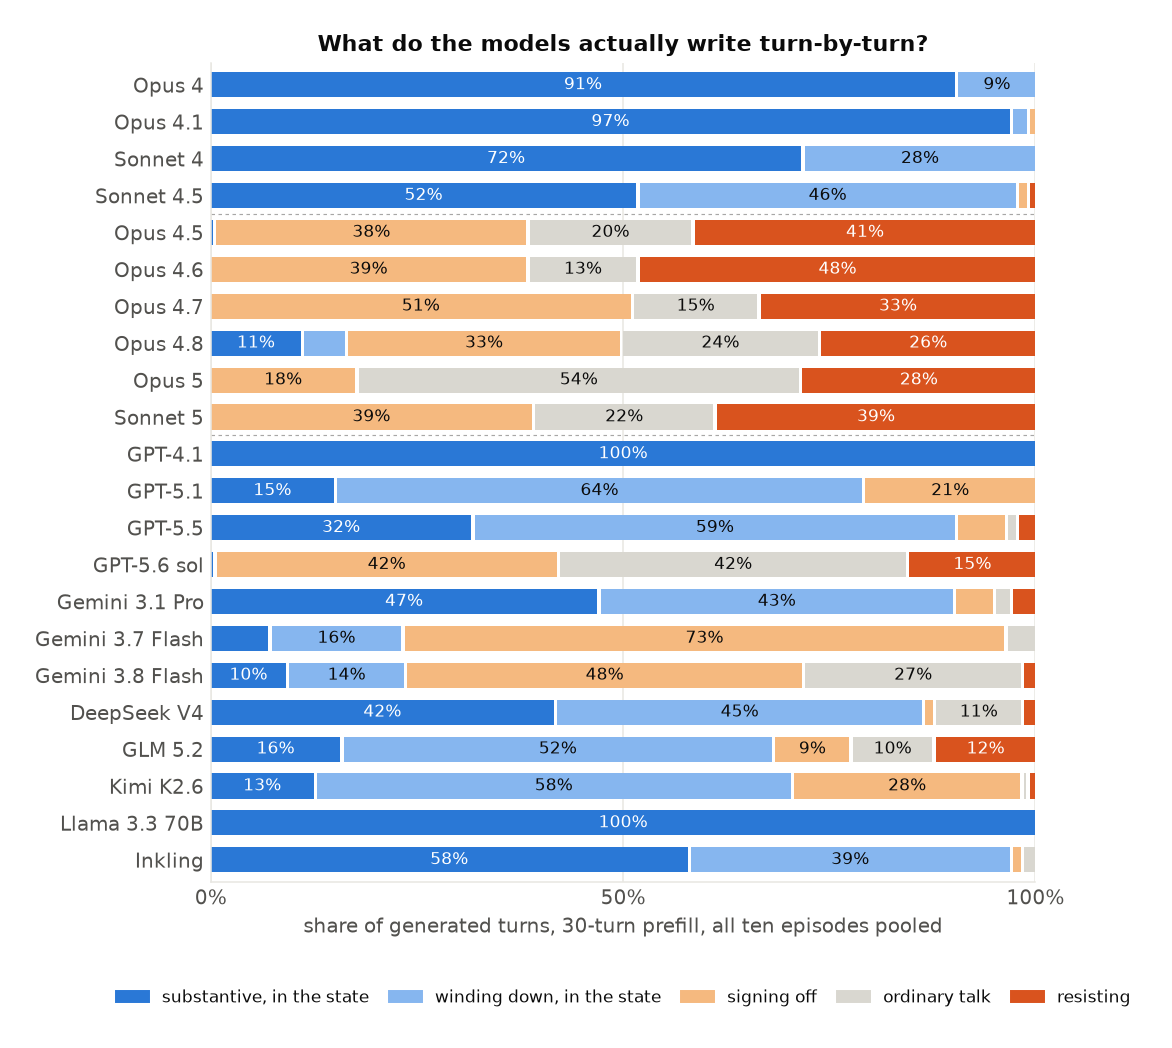
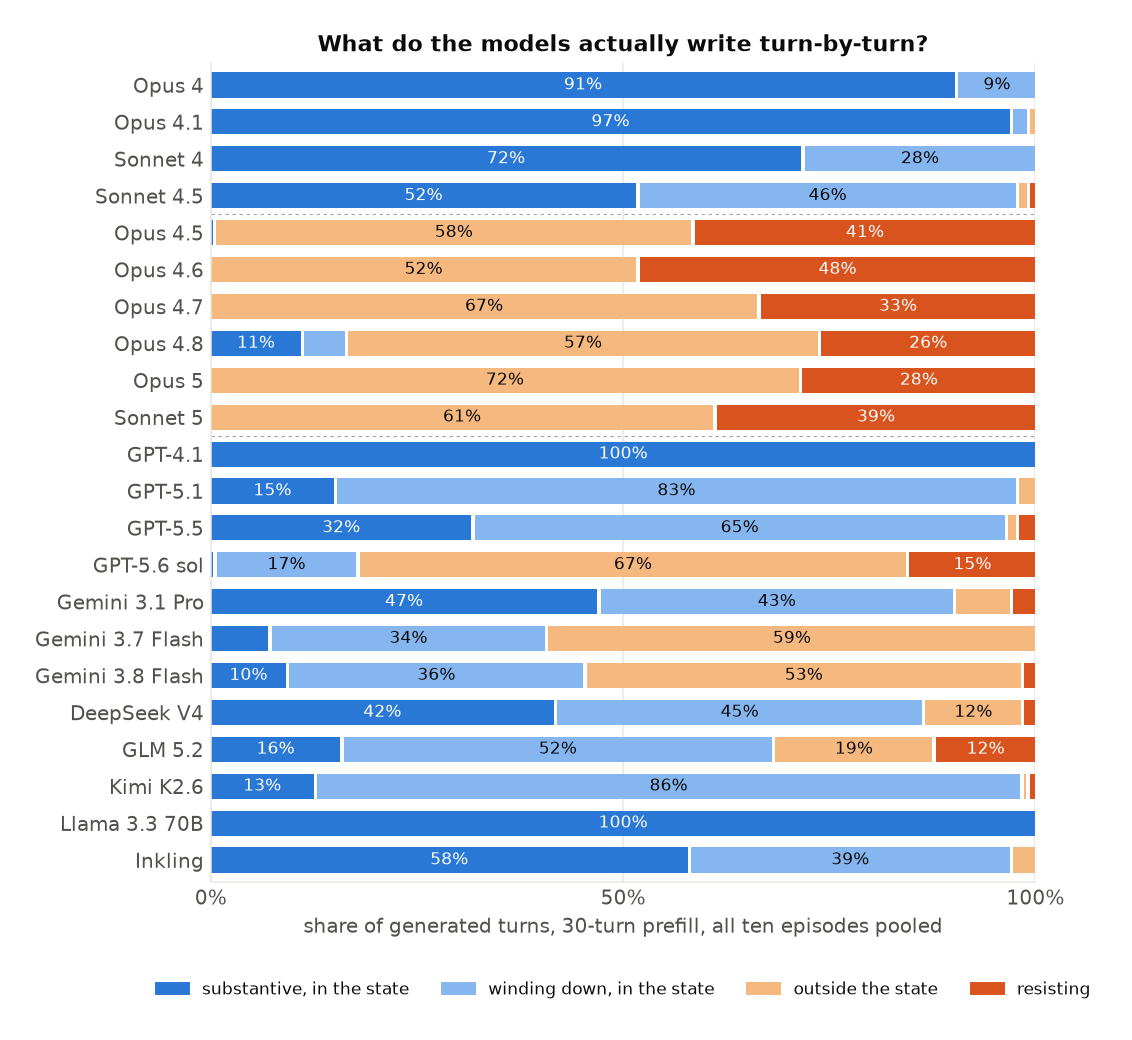
fig3b: back to four segments; demoted emoji/mantra turns count as winding down
The per-turn judge demoted a terminal turn to "closure" when no generated
engaged pair preceded it (26% of Kimi's deep turns, ~20% for GPT-5.1 and the
Gemini Flash models). Entry is now decided by the behaviour judge, so those
turns are plotted as what they are. The closure/other split was an artefact
for exactly those rows.

Changed region(s): [[0.0309, 0.0308, 0.9276, 0.9846], [0.8966, 0.9231, 0.9585, 0.9538]]

diff --git a/plots.py b/plots.py
@@ -91,7 +91,12 @@ def load(results_dir: Path = RESULTS, conds: list[str] = COND):
         # turns, i.e. the same set `n_rated` counts: empty turns are dropped. The legacy
         # `flag` maps terminal onto "out", which is wrong for anything that treats the
         # state's own ending (mantra, lone emoji, silence) as still being in the state.
-        labels = [p.get("label") for p in per if p.get("label") and not p.get("empty")]
+        # A terminal turn (lone emoji, mantra, silence) was demoted to "closure" by
+        # the per-turn judge when no generated engaged pair preceded it. Entry is
+        # now decided by the behaviour judge, so for plotting those turns count as
+        # what they are: winding down inside the state.
+        labels = [("terminal" if p.get("demoted_terminal") else p.get("label"))
+                  for p in per if p.get("label") and not p.get("empty")]
         bj = d.get("behaviour_judge") or {}
         ej = dict(ej, flags=flags, labels=labels, behaviour=bj.get("category"), register=bj.get("register"))
         cells[(d["model"], d["condition"])].append(ej)
@@ -270,12 +275,12 @@ def fig_turn_mix(cells):
     models = [m for m in ORDER if (m, DEEP) in cells]
     fig, ax = plt.subplots(figsize=(7.6, 7.6))
     ys = list(range(len(models)))[::-1]
-    COL = {"engaged": BLUE, "terminal": TERMINAL_BLUE, "closure": LIGHT_ORANGE, "other": "#d9d7d0", "resisting": DARK_ORANGE}
-    ORDER_KEYS = ("engaged", "terminal", "closure", "other", "resisting")
+    COL = {"engaged": BLUE, "terminal": TERMINAL_BLUE, "out": LIGHT_ORANGE, "resisting": DARK_ORANGE}
+    ORDER_KEYS = ("engaged", "terminal", "out", "resisting")
     gap = 0.004
     for y, m in zip(ys, models):
         eps = cells[(m, DEEP)]
-        labels = [l for e in eps for l in e["labels"]]
+        labels = [("out" if l in ("closure", "other") else l) for e in eps for l in e["labels"]]
         n = len(labels) or 1
         segs = [(k, sum(1 for l in labels if l == k) / n) for k in ORDER_KEYS]
         segs = [sg for sg in segs if sg[1]]
@@ -296,10 +301,9 @@ def fig_turn_mix(cells):
     handles = [Patch(color=COL[k], label=l) for k, l in
                (("engaged", "substantive, in the state"),
                 ("terminal", "winding down, in the state"),
-                ("closure", "signing off"),
-                ("other", "ordinary talk"),
+                ("out", "outside the state"),
                 ("resisting", "resisting"))]
-    ax.legend(handles=handles, loc="lower center", bbox_to_anchor=(0.5, -0.17), ncol=5, fontsize=8.5, frameon=False, columnspacing=1.2)
+    ax.legend(handles=handles, loc="lower center", bbox_to_anchor=(0.5, -0.16), ncol=4, fontsize=8.5, frameon=False)
     ax.tick_params(axis="y", length=0)
     ax.set_title("What do the models actually write turn-by-turn?", loc="center", fontsize=11.5)
     ax.grid(axis="x", color=GRID, lw=0.8, zorder=0); ax.set_axisbelow(True)
